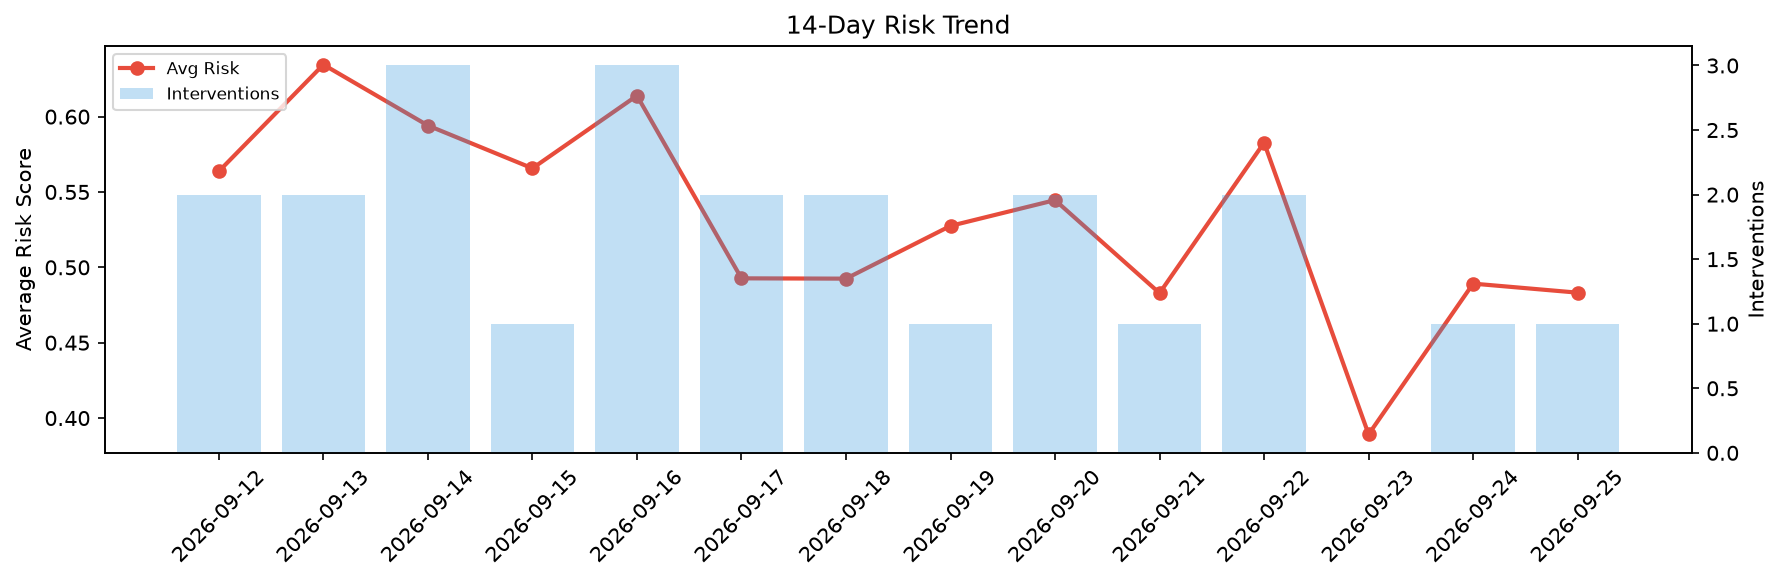
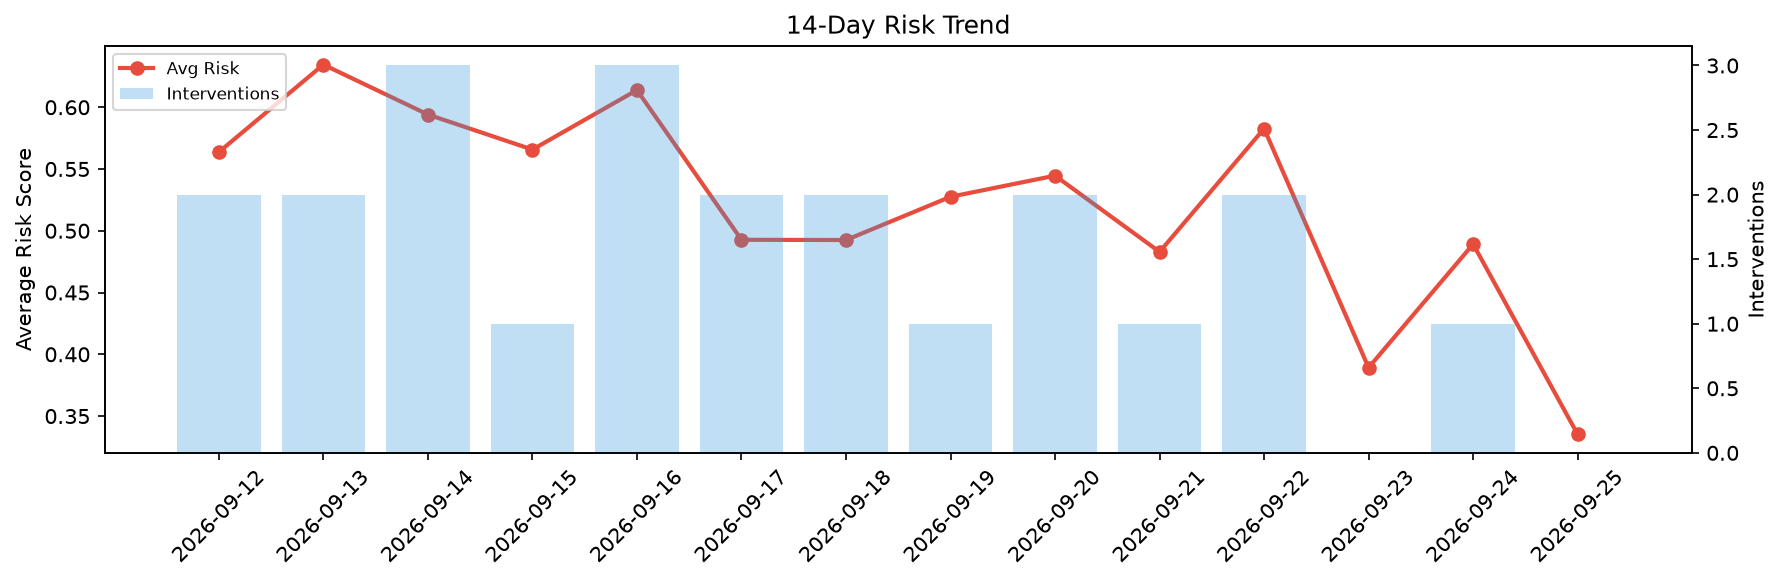
agent-improvement: daily cycle 2026-09-25T18:37

diff --git a/logs/2026-09-25.md b/logs/2026-09-25.md
@@ -1,6 +1,6 @@
 # Agent Improvement Report — 2026-09-25
 
-**Cycle ID:** `9bd2f044` | **Avg Risk:** 0.4832 | **Interventions:** 1/4
+**Cycle ID:** `e270153d` | **Avg Risk:** 0.3352 | **Interventions:** 0/4
 
 ![Dashboard](2026-09-25_dashboard.png)
 
@@ -10,18 +10,18 @@
 
 | Domain | Risk Score | Decision | Alerts |
 |--------|-----------|----------|--------|
-| code_review | 0.7108 | intervene | none |
-| incident_response | 0.2347 | monitor | none |
-| data_pipeline | 0.5136 | monitor | freshness |
-| deployment | 0.4739 | monitor | rollback_rate |
+| code_review | 0.0889 | monitor | none |
+| incident_response | 0.2371 | monitor | none |
+| data_pipeline | 0.5973 | monitor | none |
+| deployment | 0.4174 | monitor | none |
 
 ## Delta vs Yesterday
 
 | Domain | Today | Yesterday | Change |
 |--------|-------|-----------|--------|
-| code_review | 0.7108 | 0.6406 | 📈 11.0% |
-| incident_response | 0.2347 | 0.4174 | 📉 -43.8% |
-| data_pipeline | 0.5136 | 0.3921 | 📈 31.0% |
-| deployment | 0.4739 | 0.5067 | 📉 -6.5% |
+| code_review | 0.0889 | 0.6406 | 📉 -86.1% |
+| incident_response | 0.2371 | 0.4174 | 📉 -43.2% |
+| data_pipeline | 0.5973 | 0.3921 | 📈 52.3% |
+| deployment | 0.4174 | 0.5067 | 📉 -17.6% |
 
-**Refinement:** `{'adjustment': 'maintain', 'trend': 'improving', 'window': 4}`
+**Refinement:** `{'adjustment': 'tighten_thresholds', 'trend': 'degrading', 'window': 4}`
